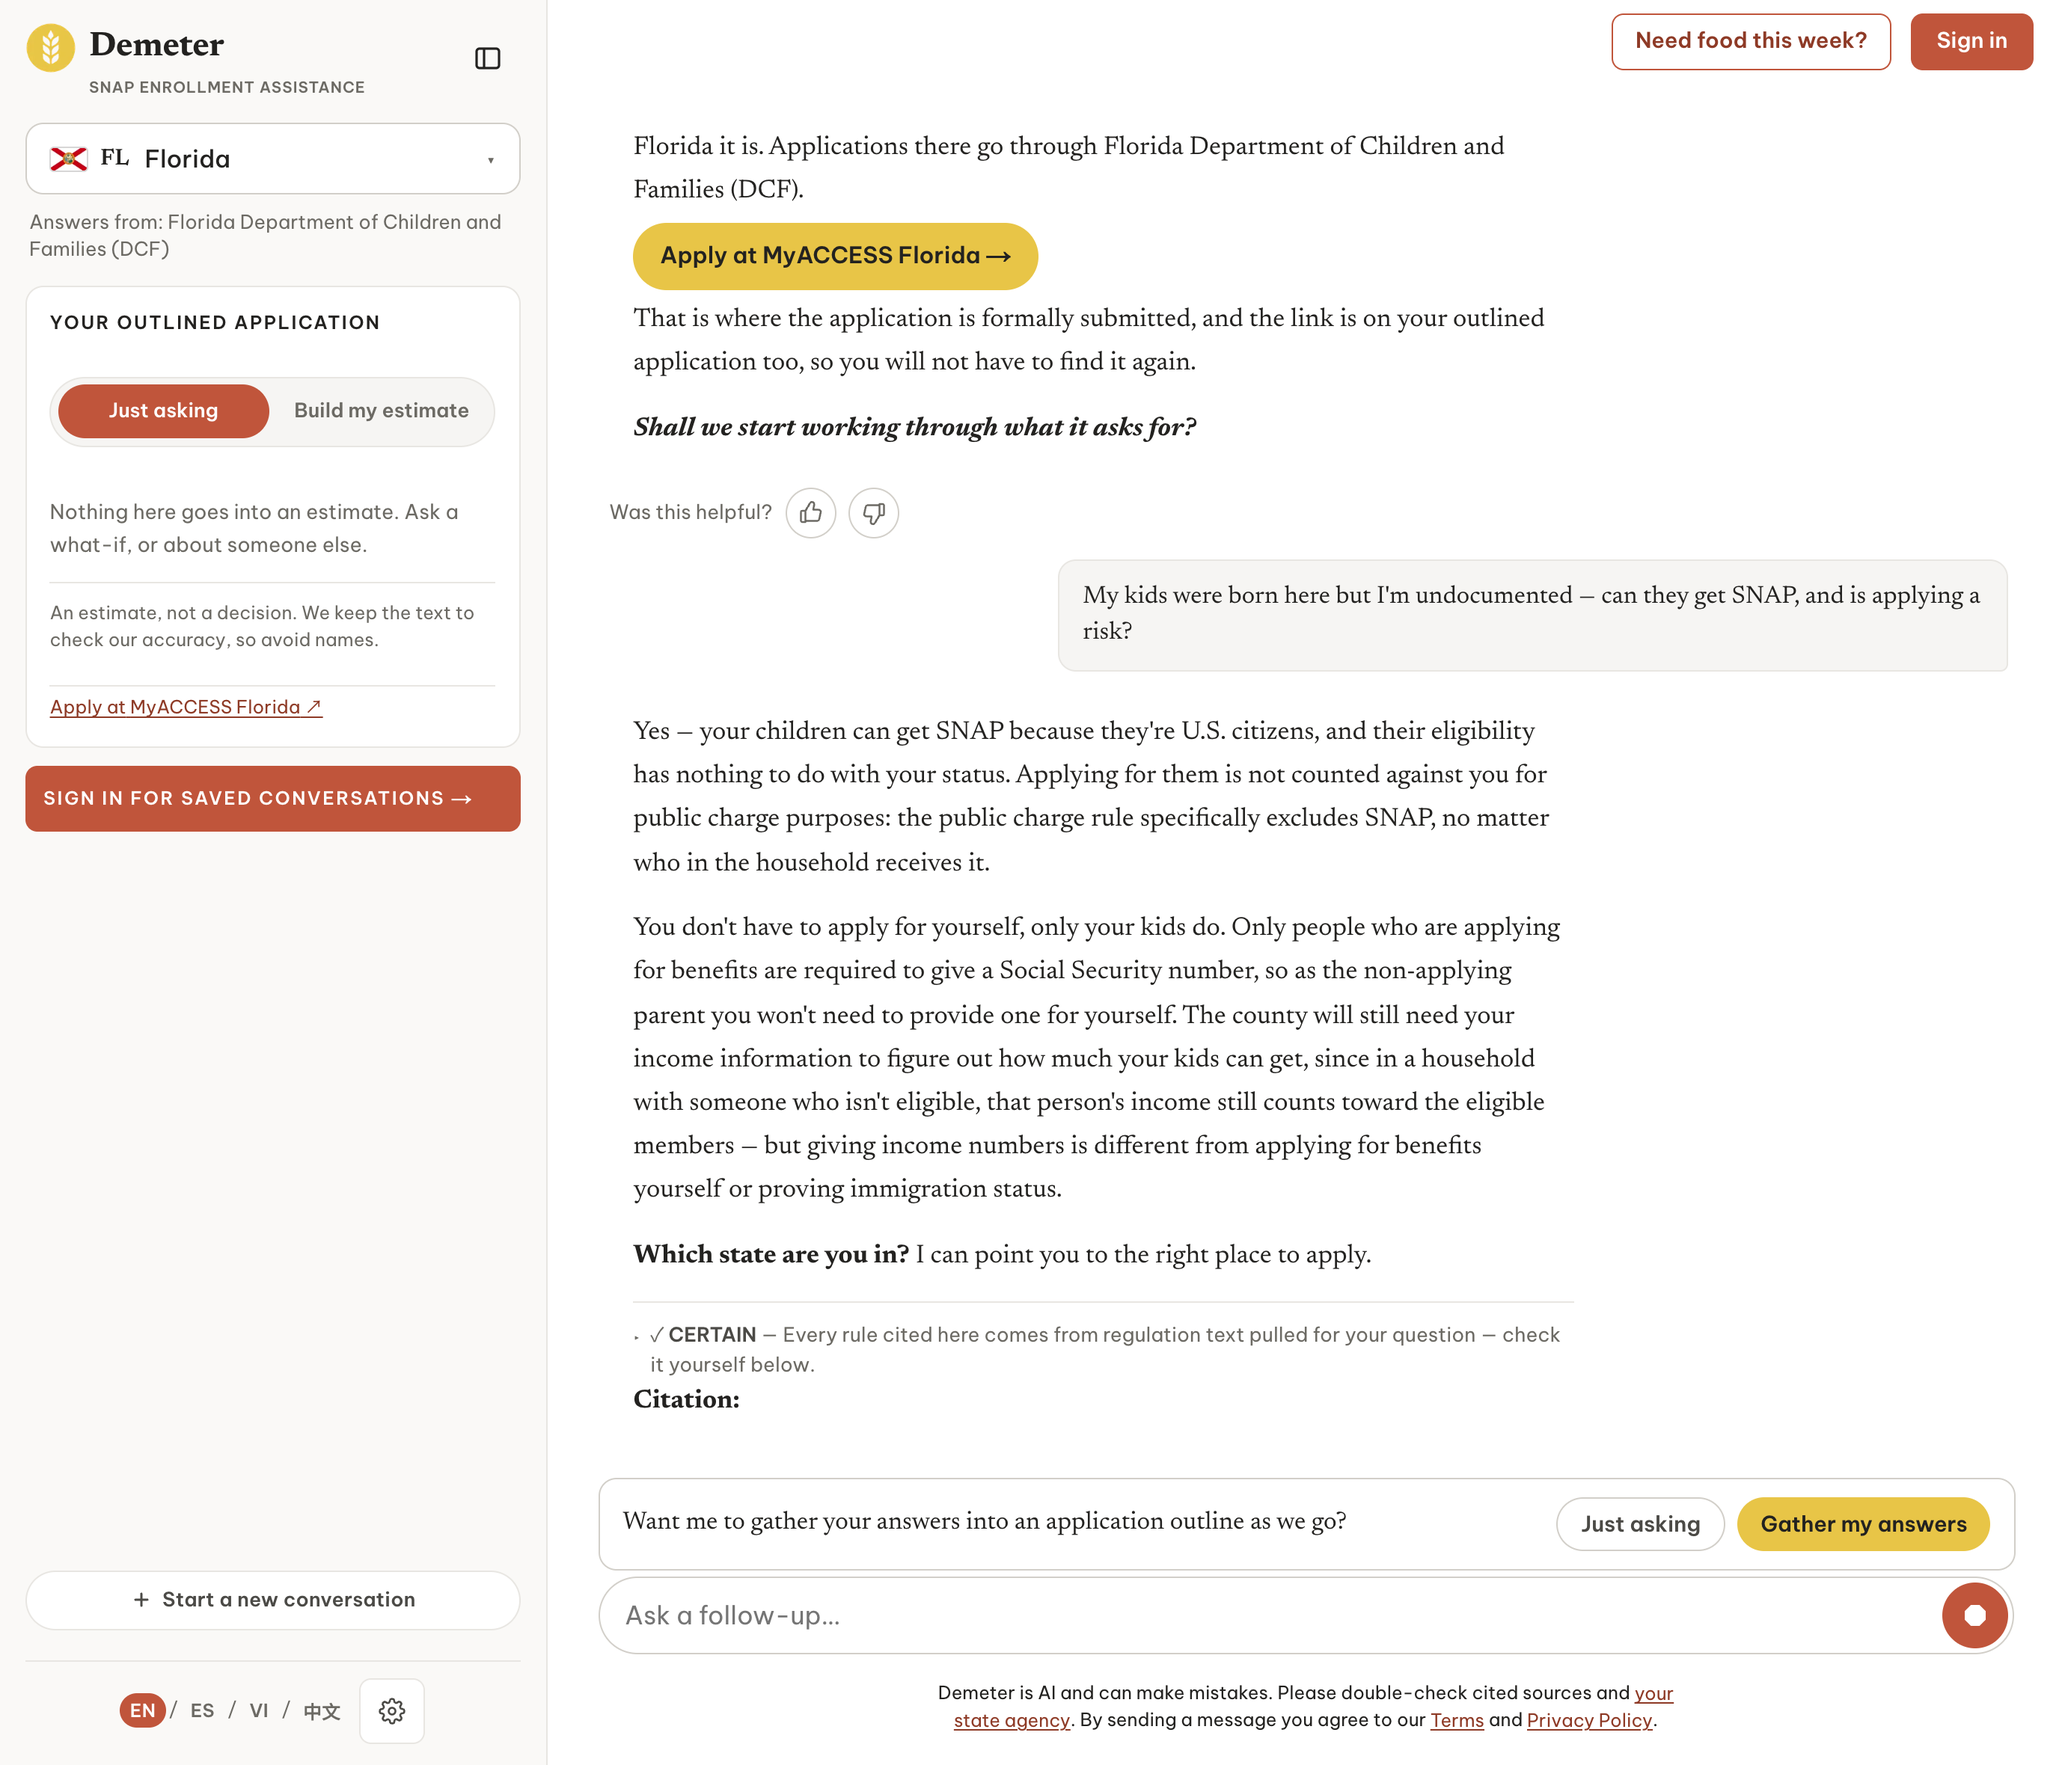
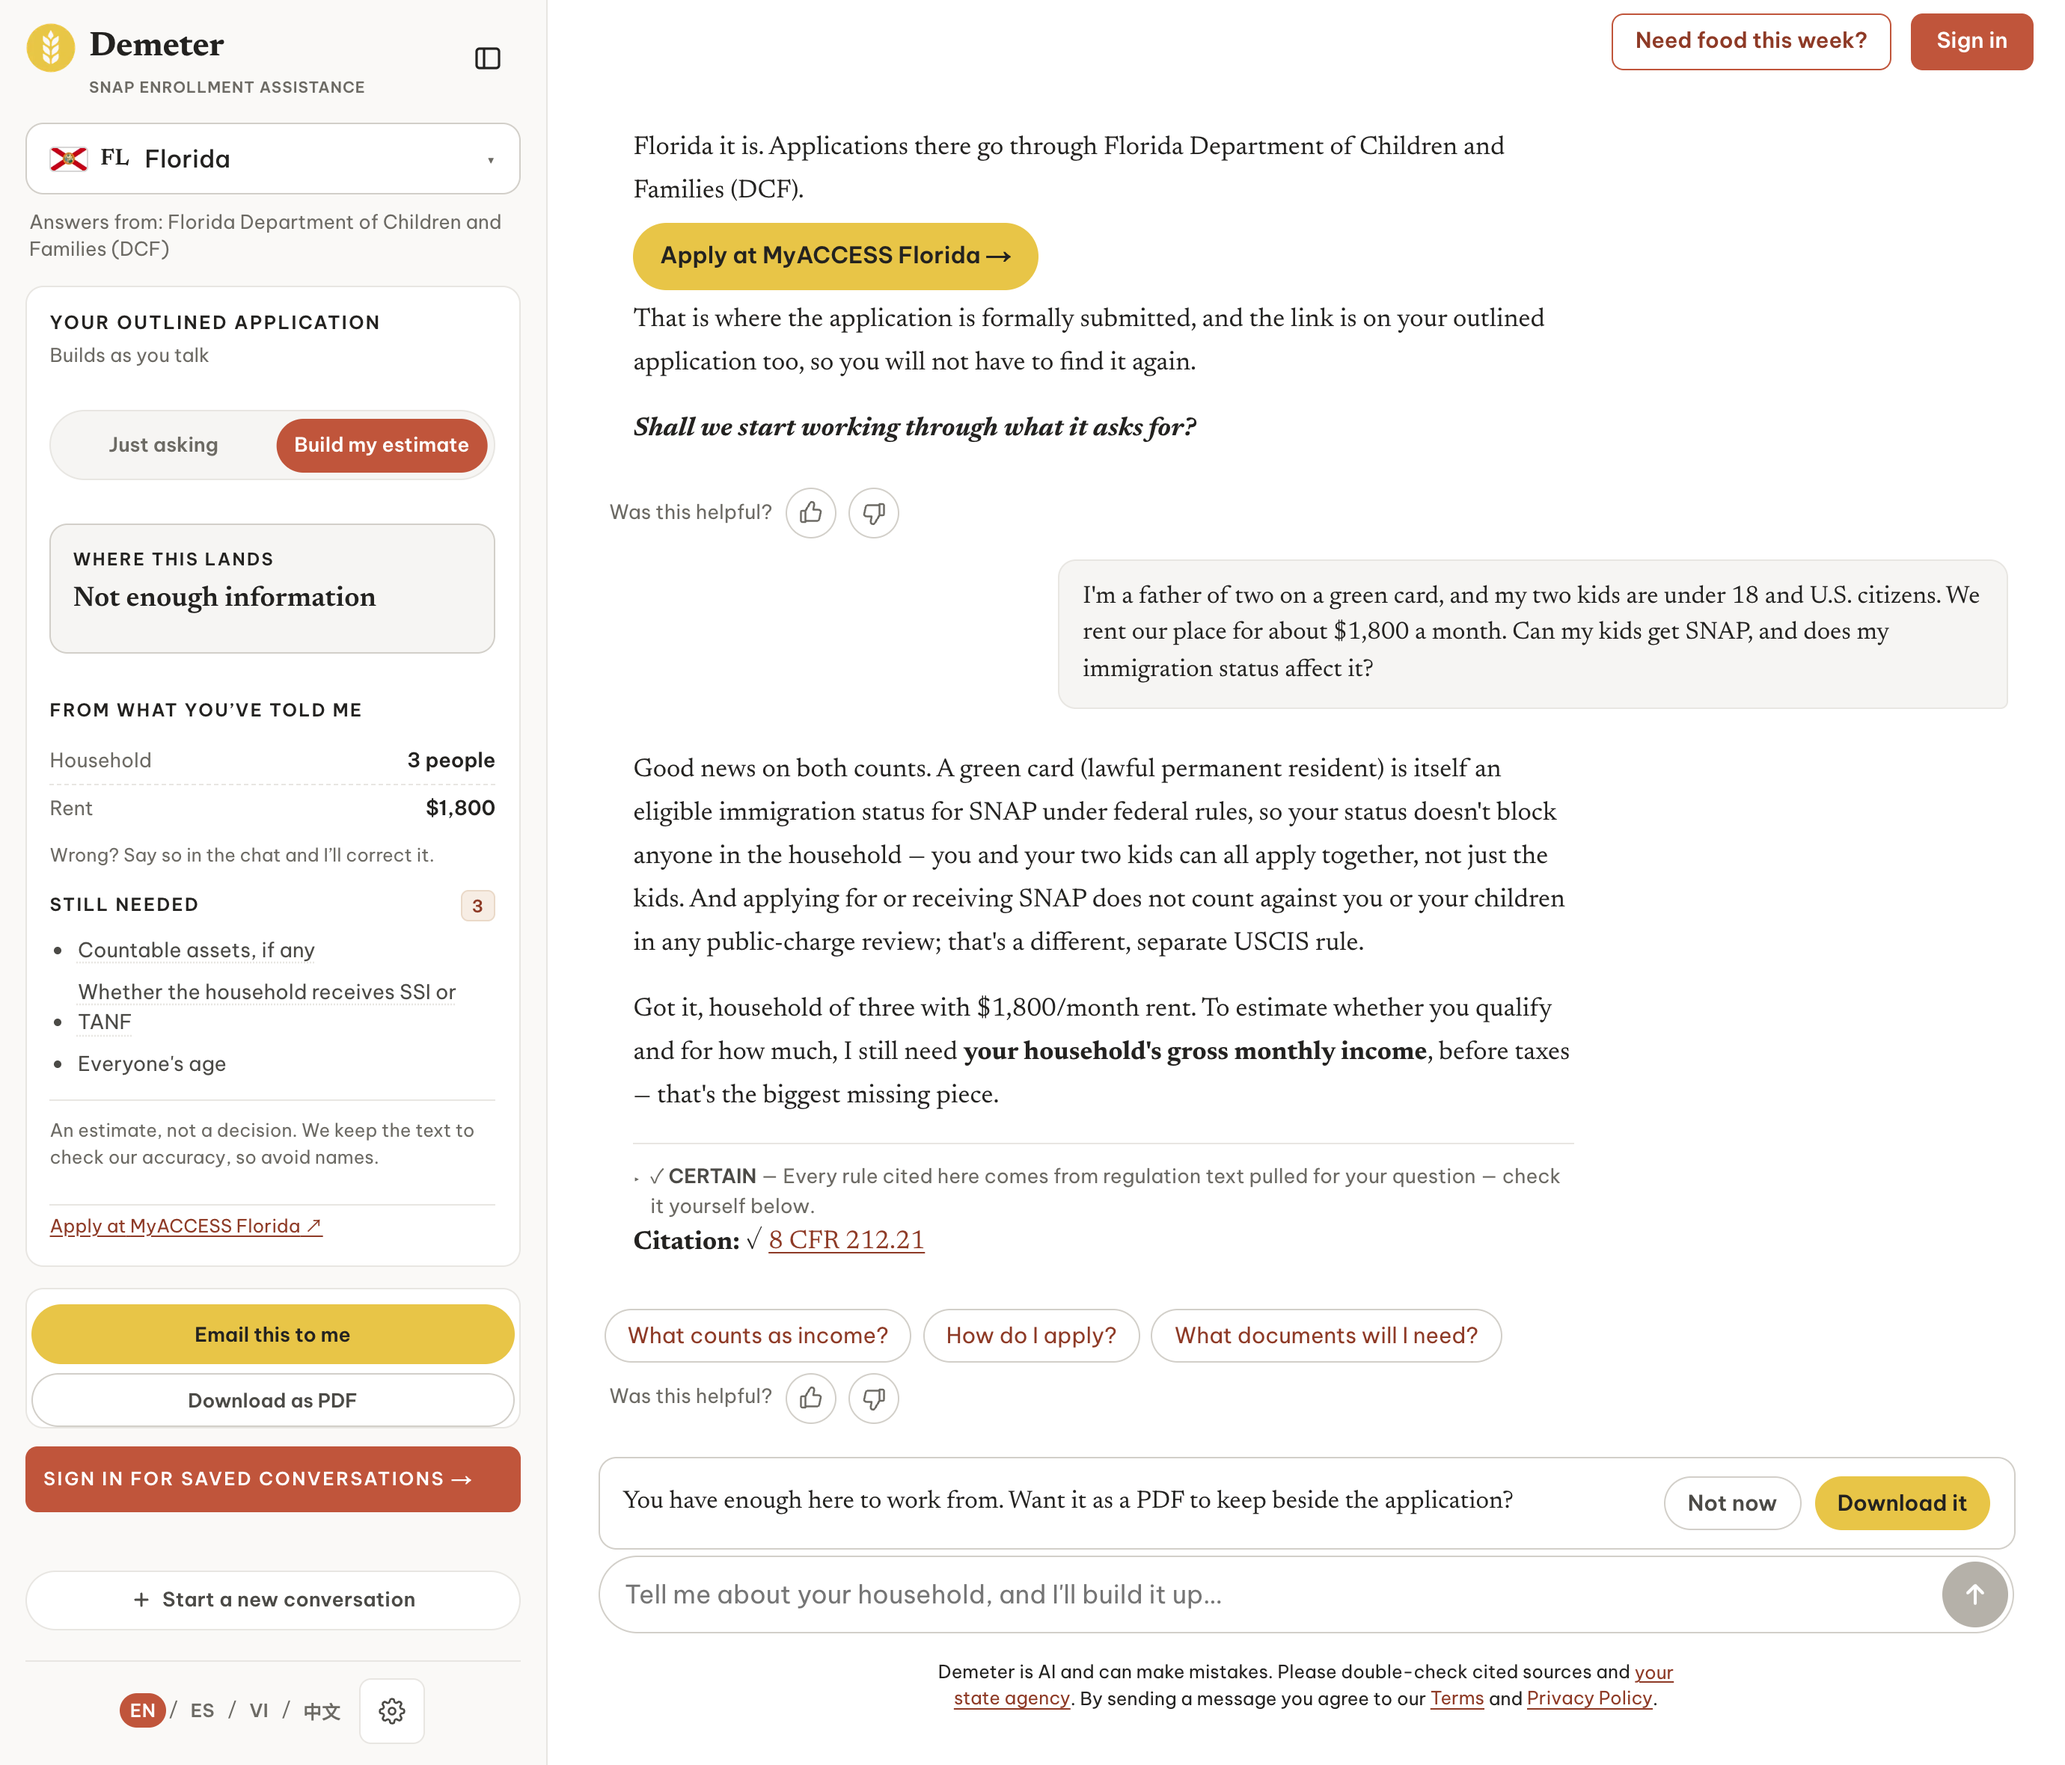
feat(cra-artifact): page-3 screenshot = built-out estimate + a genuinely messy question
Recapture the page-3 hero from the live 'Build my estimate' flow so the left
rail shows a populated live application outline (household, monthly income,
rent, and what's still needed — with Email/Download), and drop the charged
'undocumented' framing. The CA/LA exhibit now shows a real, complex question —
a refugee on a green card doing Uber Eats gig work with no W-2, asking how gig
income and gas/expenses count — answered CERTAIN with the rule cited (LPR
eligibility, gross-minus-expenses gig income, the 2026 work-rules nuance).

FL uses a green-card eligibility question (the thinner FL pack can't complete
the gig question — an honest limitation), also CERTAIN with an inline 8 CFR
212.21 citation and the same populated outline.

Leader-line callouts now point at the outline, the answer, and the citation,
with state-aware target y-values (the answers differ in length) and generic
labels that fit either exhibit. Footer copy tightened so page 3 holds at
overflow 0 for both CA and FL; img carries an aspect-ratio so height is
reserved even where the file:// image is sandboxed.

diff --git a/tools/cra-artifact/templates/artifact.html b/tools/cra-artifact/templates/artifact.html
@@ -176,15 +176,15 @@
   /* Page 3 — the platform, as built (annotated real screenshot) */
   .platform-hero { margin-top:8px; }
   .chatshot { position:relative; }
-  .chatshot > img { width:100%; display:block; border:1px solid var(--rule); border-radius:6px; }
+  .chatshot > img { width:100%; display:block; border:1px solid var(--rule); border-radius:6px; aspect-ratio:2760/2360; object-fit:cover; }
   .chatshot .leaders { position:absolute; inset:0; width:100%; height:100%; pointer-events:none; }
   .chatshot .leaders .ld { fill:none; stroke:var(--accent-deep); stroke-width:1; vector-effect:non-scaling-stroke; }
   .chatshot .leaders .dot { fill:var(--accent); stroke:#fff; stroke-width:0.3; }
   .chatshot .co { position:absolute; font-size:7.4pt; line-height:1.3; color:var(--body); }
   .chatshot .co b { display:block; font-family:'Newsreader',serif; font-weight:600; font-size:8.4pt; color:var(--accent-deep); margin-bottom:1px; }
-  .co-r1 { left:74%; top:39%; width:25%; }
-  .co-r2 { left:74%; top:61%; width:25%; }
-  .co-l1 { left:0.5%; top:57%; width:23.5%; }
+  .co-l1 { left:25.5%; top:29%; width:21%; }
+  .co-r1 { left:73%; top:41%; width:26%; }
+  .co-r2 { left:73%; top:63%; width:26%; }
   .chatshot-cap { font-size:7pt; color:var(--muted); margin-top:5px; text-align:center; }
   .evidence-foot { display:flex; gap:.3in; margin-top:8px; border-top:2px solid var(--accent); padding-top:9px; align-items:flex-start; }
   .ev-text { flex:1.55; min-width:0; }
@@ -280,21 +280,17 @@
   <div class="platform-hero">
     <div class="chatshot">
       <img src="[[chat_shot_src]]" alt="A real Demeter conversation in the live interface: a mixed-status SNAP question answered with the governing federal rule cited, showing the state selector, the live application outline, and the language options."/>
-      <svg class="leaders" viewBox="0 0 100 100" preserveAspectRatio="none" aria-hidden="true">
-        <polyline points="74,46 52,48" class="ld"/><circle cx="52" cy="48" r="0.7" class="dot"/>
-        <polyline points="74,69 42,78" class="ld"/><circle cx="42" cy="78" r="0.7" class="dot"/>
-        <polyline points="3,58 3,40 9,40" class="ld"/><circle cx="9" cy="40" r="0.7" class="dot"/>
-      </svg>
-      <div class="co co-r1"><b>Answers the second question</b>Citizen kids qualify; a non-applicant gives no SSN and is no public-charge risk &mdash; the mixed-status fear, handled.</div>
-      <div class="co co-r2"><b>Cited &amp; checkable</b>States its confidence and links the governing regulation text to check &mdash; not a chatbot guess.</div>
-      <div class="co co-l1"><b>A live application outline</b>builds as they chat, localized to the state's own agency.</div>
+      <svg class="leaders" viewBox="0 0 100 100" preserveAspectRatio="none" aria-hidden="true">[[chat_leaders]]</svg>
+      <div class="co co-l1"><b>A live application outline</b>Household, income, and rent fill in as they talk; it flags what's still needed.</div>
+      <div class="co co-r1"><b>A messy question, answered</b>The kind a form can't handle &mdash; eligibility, gig income, expenses &mdash; in plain language.</div>
+      <div class="co co-r2"><b>Cited &amp; checkable</b>Every answer states its confidence and links the governing rule to verify.</div>
     </div>
-    <div class="chatshot-cap">A real conversation from the live assistant &mdash; the interface an applicant uses: state selector (top left), cited answers, and four languages (bottom left).</div>
+    <div class="chatshot-cap">A real conversation from the live assistant &mdash; the interface an applicant uses: state selector (top left), a live application outline, and four languages (bottom left).</div>
   </div>
   <div class="evidence-foot">
     <div class="ev-text">
-      <p><strong>Built-in limits.</strong> Makes no eligibility determination and routes anyone who needs a decision to their county or 2-1-1; redacts personal data before it leaves the system and never asks for an SSN, date of birth, or account number; carries crisis and domestic-violence lines. Resident conversations are never shared with the bank and no products are marketed to residents; question text auto-purges (7 days; 30 for flagged).</p>
-      <p><strong>Checked, and checkable.</strong> A graded set of ~600 questions across all 53 states and territories (incl. adversarial and crisis cases), re-run on every rules change &mdash; we'll hand your compliance team the questions and rubric to run themselves. Corpus (eCFR + 53 packs, dated provenance[[me_audit_clause]]) on a 120-day refresh.</p>
+      <p><strong>Built-in limits.</strong> Makes no eligibility determination &mdash; routes decisions to the county or 2-1-1. Redacts personal data before it leaves the system; never asks for an SSN, DOB, or account number; carries crisis and DV lines. Resident data is never shared with the bank, no products are marketed, and question text auto-purges (7/30 days).</p>
+      <p><strong>Checked, and checkable.</strong> A graded ~600-question set across all 53 jurisdictions (adversarial + crisis included), re-run on every rules change &mdash; and offered to your compliance team to run themselves. Corpus: eCFR + 53 packs, dated provenance[[me_audit_clause]]; 120-day refresh.</p>
     </div>
     <div class="ev-side">
       <div class="qrbox"><div class="qr">[[qr_chat_svg]]</div><div class="qr-txt"><strong>Try it.</strong> Scan, or<br>civica-applicant.vercel.app/chat</div></div>

diff --git a/tools/cra-artifact/src/generate.py b/tools/cra-artifact/src/generate.py
@@ -201,6 +201,15 @@ def build_values(bank, assumptions, org, metrics, meta):
     # the HTML. State-specific so the FL banks show Florida/DCF/SNAP, not CA.
     _shot = "chat-shot-ca.png" if state == "CA" else "chat-shot-fl.png"
     chat_shot_src = (TOOL_ROOT / "assets" / _shot).as_uri()
+    # Leader-line target dots (in 0-100 SVG space over the screenshot). The
+    # answer + citation sit at different heights per state because the answers
+    # differ in length, so the target y-values are state-specific; the callout
+    # labels themselves are fixed in the template.
+    _ay, _cy = (53, 84) if state == "CA" else (50, 69)   # answer y, citation y
+    chat_leaders = (
+        f'<polyline points="26.5,41 22,47" class="ld"/><circle cx="22" cy="47" r="0.7" class="dot"/>'
+        f'<polyline points="73,49 52,{_ay}" class="ld"/><circle cx="52" cy="{_ay}" r="0.7" class="dot"/>'
+        f'<polyline points="73,71 43,{_cy}" class="ld"/><circle cx="43" cy="{_cy}" r="0.7" class="dot"/>')
     # Regulator-specific CRA rule citation for the community-reinvestment box.
     cra_part = cra_reg_part(bank["regulator"])
     cra_rule_cite = f"12 CFR Part {cra_part} ({bank['regulator']})"
@@ -259,14 +268,14 @@ def build_values(bank, assumptions, org, metrics, meta):
         # asset, so the generator stays stdlib-only. See assets/qr-chat.svg.
         "qr_chat_svg": (TOOL_ROOT / "assets/qr-chat.svg").read_text(),
         "chat_shot_src": chat_shot_src,
+        "chat_leaders": chat_leaders,
         # Page-3 (platform evidence) state-awareness: the demo and the ME-audit
         # provenance are state-specific, so the CalFresh/California framing must
         # not render for the FL banks. The mixed-status citations (7 CFR) are
         # federal and valid in every state.
         "state_name": pumamap.STATE_NAMES.get(state, "your state"),
         "me_audit_clause": (
-            "; the California pack is informed by an audit of 38 county "
-            "Management Evaluation reports obtained by public-records request"
+            "; the CA pack built from an audit of 38 county ME reports"
             if state == "CA" else ""),
         "benefit_range": f"{fmt_musd(need['benefit_low_usd'])}–{fmt_musd(need['benefit_high_usd'])}",
         "ratio_line": ratio_line,

diff --git a/tools/cra-artifact/tests/test_generator.py b/tools/cra-artifact/tests/test_generator.py
@@ -996,7 +996,7 @@ def test_platform_evidence_page_present_and_state_aware():
         score.load_county_metrics(meta["metrics"]), meta)[0])
     assert "The platform, as built" in ca
     assert "chat-shot-ca.png" in ca                             # the real CA screenshot
-    assert "Answers the second question" in ca                  # a leader-line callout
+    assert "A live application outline" in ca                   # a leader-line callout
     assert "qrline" in ca                                       # the live-link QR
     assert "no eligibility determination" in ca                 # the rails
     assert "Harvard Innovation Labs" in ca                      # affiliation line
